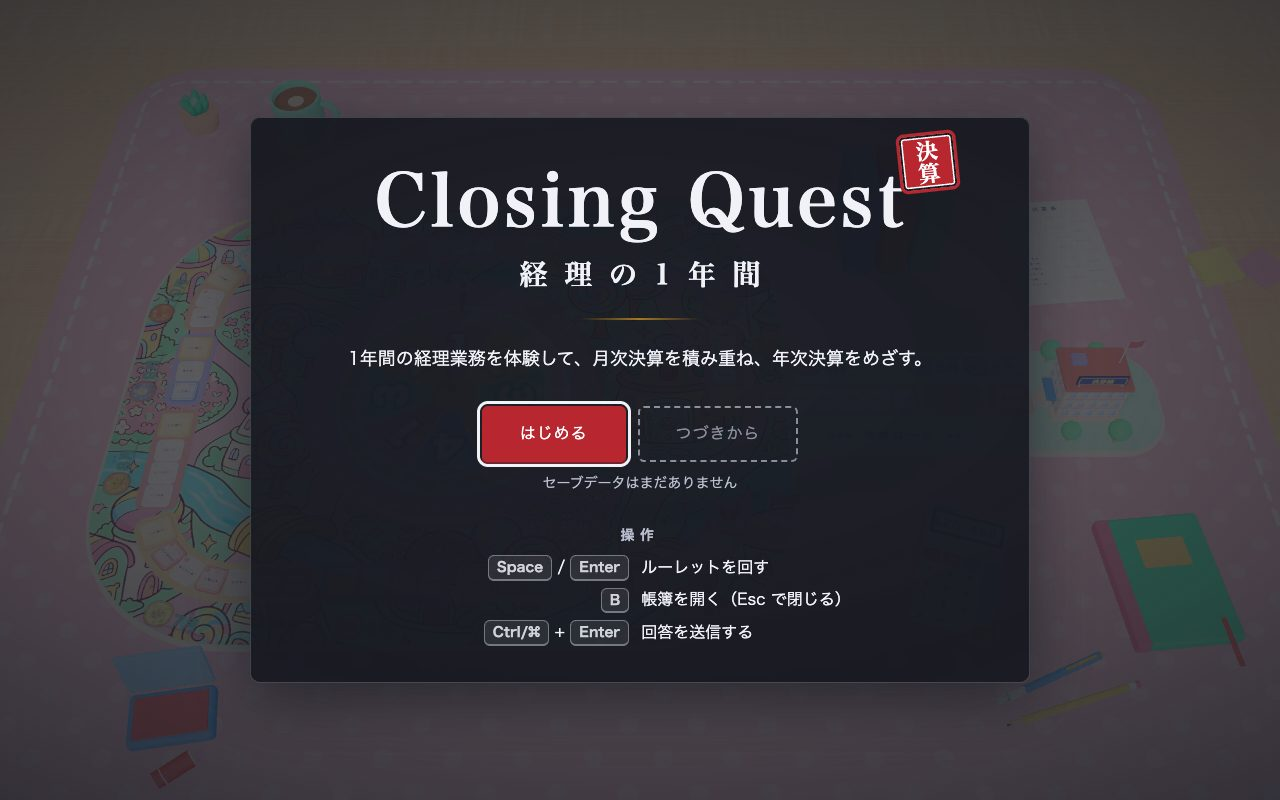
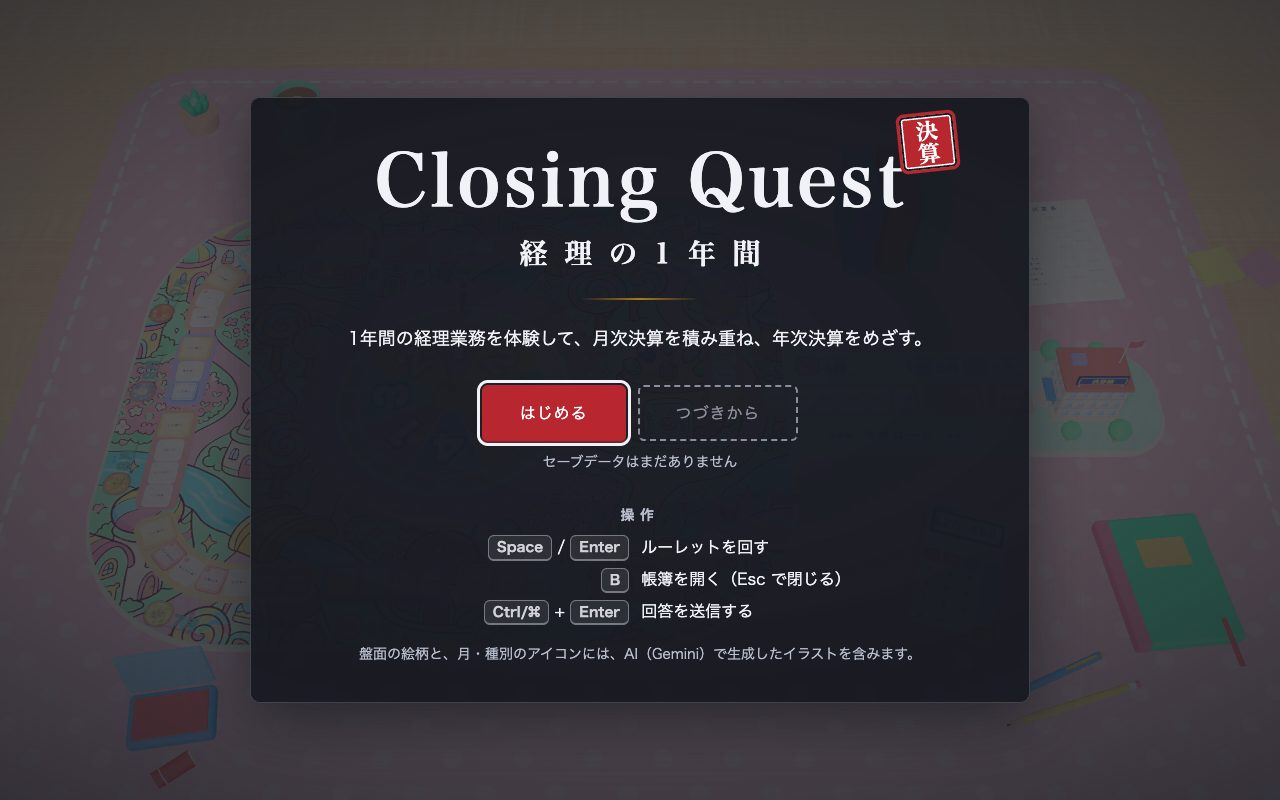
docs: record Gemini terms check, mark AI-generated art, keep prompts
- CREDITS.md: results of checking Google's terms for Gemini-generated images
  (no ownership claim; no misrepresenting AI provenance; no ML-training use;
  no explicit commercial-use grant in the consumer terms), what this project
  does about it, and what to do before commercial use
- Title screen: state that the board art and icons contain AI (Gemini) images
- art-src/PROMPTS.md: prompts used and prompts for the assets still to make
  (Gemini image quota resets 2026-09-27 17:36 JST)
- README: credit section updated, roadmap notes the pending assets

Changed region(s): [[0.1875, 0.4062, 0.8125, 0.875], [0.1875, 0.125, 0.8125, 0.375]]

diff --git a/src/ui/shell/title.ts b/src/ui/shell/title.ts
@@ -51,6 +51,7 @@ export const createTitle = (opts: ShellOptions): View => {
     noSave,
     el('h2', { class: 'cq-title__keys-head', text: '操作' }),
     keys,
+    el('p', { class: 'cq-title__credit', text: '盤面の絵柄と、月・種別のアイコンには、AI（Gemini）で生成したイラストを含みます。' }),
   );
 
   const root = el(

diff --git a/src/ui/shell/shell.css b/src/ui/shell/shell.css
@@ -246,6 +246,13 @@
   color: var(--night-ink-2);
   font-size: var(--fs-sm);
 }
+.cq-title__credit {
+  margin: 18px 0 0;
+  font-size: var(--fs-sm);
+  line-height: 1.6;
+  text-align: center;
+  color: var(--night-ink-2);
+}
 .cq-title__keys-head {
   margin: 30px 0 8px;
   font-size: var(--fs-sm);

diff --git a/CREDITS.md b/CREDITS.md
@@ -14,17 +14,42 @@
 
 ### AI 生成のイラスト（Gemini）
 
-次の画像は Google の Gemini（Nano Banana 2）で生成しました。生成日は 2026-09-26 です。
+次の画像は、Google の Gemini アプリ（画像生成モデル「Nano Banana 2」）で生成した **AI 生成画像** です。生成日は 2026-09-26 です。生成に使った指示文は [`art-src/PROMPTS.md`](art-src/PROMPTS.md) に記録しています。
 
 | ファイル | 内容 | 使い方 |
 |---|---|---|
 | `public/assets/art/board_ground.jpeg` | 盤面の下地のイラスト（お菓子の街のマップ） | 盤面の地に貼る |
 | `public/assets/art/month_icons.png` | 月のアイコン 12 個（4 月の桜〜3 月のひな人形） | 月ごとの区画のラベル |
-| `public/assets/art/kind_icons.png` | カード種別のアイコン（仕訳・期限・計算はGemini。突合・判断・報告は `scripts/build-art-atlas.py` で描画） | マスの印 |
+| `public/assets/art/kind_icons.png` | カード種別のアイコン。仕訳・期限・計算は Gemini で生成。突合・判断・報告は `scripts/build-art-atlas.py` で描いた仮の絵 | マスの印 |
 
-- 元の画像は `art-src/` にあります。アトラスは `python3 scripts/build-art-atlas.py` で作ります。
-- **生成物の商用利用・公開・再配布の可否は、Google の利用規約に従います。公開する前に、最新の規約を必ず確認してください。**
-- 画像に人物・ロゴ・実在の作品は含まれていません（モチーフは季節の行事と事務用品です）。
+- 元の画像は `art-src/` にあります（Google の来歴情報 C2PA つき）。アトラスは `python3 scripts/build-art-atlas.py` で作った加工物で、切り抜きと再エンコードのため、来歴情報は含みません。
+- 画像に人物・ロゴ・既存のキャラクター・実在の作品は含めていません（モチーフは季節の行事、事務用品、お菓子の街です）。
+
+#### 利用規約の確認結果（確認日 2026-09-26）
+
+Google の公式ページで確認しました。**私（Claude）による確認で、法的助言ではありません。** 規約は変わることがあるので、公開・配布の前に最新の内容を確認してください。
+
+| 項目 | 内容 | 出典 |
+|---|---|---|
+| 所有権 | 「Google の一部のサービスは、ユーザーによるオリジナル コンテンツの生成を許可しています。Google がそのコンテンツに対する所有権を主張することはありません。」 | [Google 利用規約](https://policies.google.com/terms?hl=ja)（発効日 2026-07-30、日本版）「ユーザーのコンテンツ」 |
+| 禁止（出所の偽り） | 生成 AI のコンテンツを人間が作成したものであると誤解させる行為。人々を欺く目的で、人間によってのみ作成されたと主張し、生成物の出所を偽ること | 同上「サービスの不正使用の禁止」、[生成 AI の使用禁止に関するポリシー](https://policies.google.com/terms/generative-ai/use-policy?hl=ja)（最終更新 2024-12-17） |
+| 禁止（学習への利用） | 機械学習モデルまたは関連する AI テクノロジーの開発を目的とした、AI 生成コンテンツの使用 | Google 利用規約「サービスの不正使用の禁止」 |
+| 禁止（権利侵害） | プライバシーに関する権利や知的財産権など、他者の権利を侵害するコンテンツの生成・配布 | 生成 AI の使用禁止に関するポリシー |
+| 免責 | 生成された内容は不正確・不適切な場合がある。ご自身の裁量で依拠、公開、利用する | [生成 AI の追加利用規約](https://policies.google.com/terms/generative-ai?hl=ja)。ただしこの規約は 2024-05-22 以降は適用されず、内容は Google 利用規約に統合されたと、ページに記載されている |
+| 商用利用 | **消費者向けの Gemini アプリの規約に、商用利用を許可する、または禁止する明示的な文言は確認できなかった。** Gemini API の追加利用規約には生成物の扱いの記述（所有権を主張しない、利用者が適用法を遵守し責任を負う、Google が同一・類似の内容を他者に生成することがある）があるが、これは API 向けで、今回は使っていない | [Gemini API 追加利用規約](https://ai.google.dev/gemini-api/terms?hl=ja)（参考） |
+
+#### このプロジェクトでの扱い
+
+- **AI 生成であることを明記する**：README、この文書、ゲームのタイトル画面に書いています。
+- **AI 生成コンテンツを機械学習の学習に使いません。**
+- 他者の権利を侵害しないよう、人物・ロゴ・既存キャラクターに似せる指示はしていません。生成された絵の見た目が、既存の作品に似ていないかは、公開前に目視で確認してください。
+- AI 生成物に著作権が生じるか、誰に帰属するか、独占できるかは、法域や人間の関与の程度によって異なり、確立していません。**この絵を独占できる保証はありません。**
+
+#### 公開・商用の前にすること
+
+- **無料で公開する場合**（GitHub Pages など）：上の禁止事項に触れず、AI 生成であることを明記していれば、規約上は公開できると読めます。
+- **販売・広告収益など、商用にする場合**：Gemini アプリの規約に、商用利用の明示的な許可がありません。有償にする前に、専門家に確認するか、素材を CC0 のもの・自作のものに差し替えてください（コードは、素材が無くても手続き生成で動きます）。
+- 規約の確認日を更新してください。
 
 ### CC0 素材
 

diff --git a/art-src/PROMPTS.md b/art-src/PROMPTS.md
@@ -1,0 +1,73 @@
+# イラスト素材の生成記録
+
+このゲームのイラスト素材（盤面の絵柄、月・種別のアイコン）は、Google の Gemini アプリ（画像生成モデル「Nano Banana 2」）で生成した AI 画像です。
+出所を明確にするため、生成日・使った指示文・状況をここに記録します。元の画像（`*.jpeg`）には、Google の来歴情報（C2PA）が入っています。加工物（`public/assets/art/*_icons.png`）は、切り抜き・再エンコードしているため、この情報は含みません。
+
+- 生成日: 2026-09-26
+- 画像の権利・利用条件の確認結果: [`CREDITS.md`](../CREDITS.md)
+- アトラスの作り方: `python3 scripts/build-art-atlas.py`
+
+## 使った指示文（要旨）
+
+### 盤面の下地 `board_ground.jpeg`
+
+画像の端まで全面がイラストで、机・枠・ふちは写さない（フルブリード）。ボードゲーム盤面の下地にする、真上から見た平面のイラスト。
+丸みのある建物、キャンディ色の屋根、ロリポップみたいな木、水色の小川と黄色い橋、ピンクの花畑、キラキラの星、宝石の乗った小さな金庫の建物。道はピンク色。
+明るいミント・ピンク・レモンイエロー・スカイブルーのポップなパステル配色、太めのやわらかい輪郭線。文字・人物・ロゴなし。中央の大きな円形の領域は何も描かず、無地のミントグリーン。完全な正方形。
+
+### 月のアイコン `month_01.jpeg` 〜 `month_12.jpeg`
+
+ポップでかわいいシール風のアイコンを 1 個だけ。丸いパステル色の円の中にモチーフを大きく描く。太くてやわらかい輪郭線、ツヤのあるキラキラしたハイライト。背景は無地の白。文字は一切入れない。正方形。
+（同じチャットで「同じスタイルで、もう一個作って」と続けて、絵柄をそろえた。）
+
+| 月 | モチーフ | 円の色 |
+|---|---|---|
+| 4 | 桜の花と花びら | ピンク |
+| 5 | こいのぼり | スカイブルー |
+| 6 | あじさいとかたつむり | ラベンダー |
+| 7 | 七夕の笹飾りと星 | イエロー |
+| 8 | ひまわりとスイカ | オレンジ |
+| 9 | お月見だんごと満月 | ペリウィンクル（青紫） |
+| 10 | もみじとどんぐり | コーラル（淡い赤橙） |
+| 11 | いちょうの落ち葉 | レモンイエローグリーン |
+| 12 | クリスマスツリー | ミントグリーン |
+| 1 | 門松と鏡餅 | レッド（淡い赤） |
+| 2 | 梅の花とうぐいす | マゼンタ（淡い赤紫） |
+| 3 | ひな人形（お内裏さまとお雛さま）と桃の花 | ピーチピンク |
+
+### 業務の種類のアイコン `kind_journal.jpeg` / `kind_deadline.jpeg` / `kind_calc.jpeg`
+
+上の月のアイコンと同じチャットで、「同じスタイルで、今度は仕事の種類を表すアイコンを作って」と続けた。
+
+| 種類 | モチーフ | 円の色 |
+|---|---|---|
+| 仕訳 | 鉛筆と伝票 | ブルー |
+| 期限・提出 | カレンダーと目覚まし時計 | コーラルレッド |
+| 計算 | 電卓 | パープル |
+
+## まだ作れていない素材（生成の上限に達したため）
+
+Gemini の 1 日の生成上限に達しました（**2026-09-27 17:36 にリセット**と表示）。次の指示文で、上限が解除されたら作ります。
+それまでは、突合・判断・報告のアイコンは `scripts/build-art-atlas.py` がコードで描いた仮の絵を使い、机は手続き生成のままです。
+
+### 種類のアイコン（`kind_audit.jpeg` / `kind_decision.jpeg` / `kind_report.jpeg`）
+
+ポップでかわいいシール風のコイン型アイコンを 1 個だけ。光沢のある金色の縁取りの丸いコインで、中はパステルの円。顔のついたかわいい小さな星とキラキラ、風の模様を添える。太くてやわらかい輪郭線。背景は無地の白、文字は一切入れない。正方形。
+
+| 種類 | モチーフ | 円の色 |
+|---|---|---|
+| 突合・確認 | 虫めがねとチェックマーク | オレンジ |
+| 判断 | 分かれ道の道しるべ（矢印の看板） | グリーン |
+| 報告・分析 | 棒グラフと上向きの矢印 | ティール（青緑） |
+
+置き場所: `art-src/kind_audit.jpeg` などに保存すれば、`scripts/build-art-atlas.py` がそちらを優先して使います。
+
+### 机 `desk_wood.png`
+
+真上から撮影した、明るい白木（ビーチ材）のオフィスデスクの天板。細かい木目、うっすらとした半つや消しの塗装、均一な照明、影や物は一切なし、正方形。ゲームの 3D の机のテクスチャとして使う。
+（置き場所: `public/assets/art/desk_wood.png`。使うときは `src/render/renderer.ts` の `ART_NAMES` に `'desk_wood'` を足す。）
+
+### マスコット `mascot.png`
+
+かわいいマスコットキャラクター。赤い丸い「はんこ（認印）」が主人公で、丸い顔（にっこり目とほっぺ）、小さな手足、頭に小さな電卓を載せている。ポップでキュートなスタイル、太い輪郭線、白背景、文字なし。
+（使い道は未定。タイトル画面や結果画面での利用を想定。）
